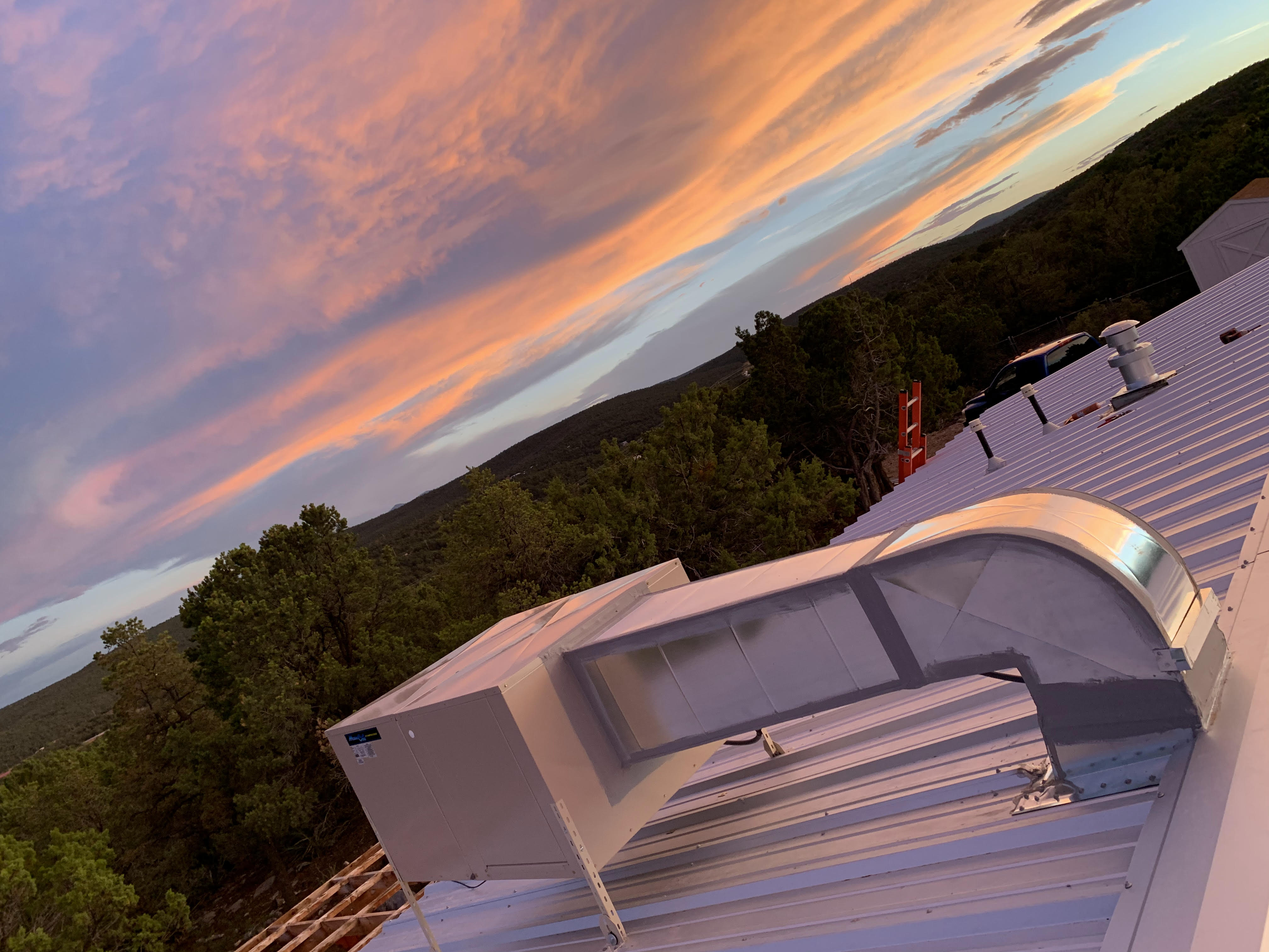
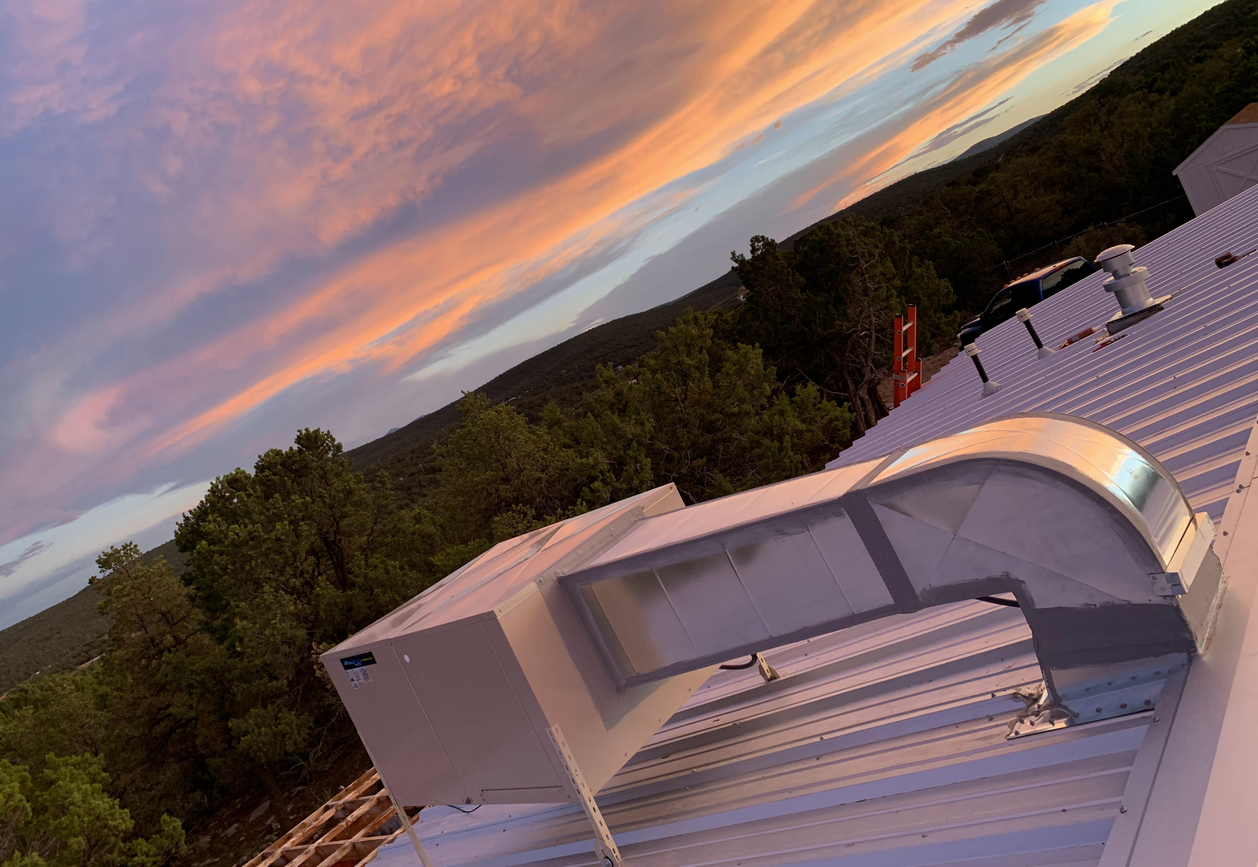
photos

diff --git a/JESOLUTIONSHCCOLORVAR2/commercial-hvac-services.html b/JESOLUTIONSHCCOLORVAR2/commercial-hvac-services.html
@@ -675,7 +675,7 @@
                                     <img src="images/HVACimages/facility-ceiling-hvac-air-duct-system.webp" style="height: 240px; width: 100%; object-fit: cover;" class="img-fluid rounded-20px" alt="Insulated ductwork in a commercial facility, part of a comprehensive HVAC service in Tulsa.">
                                 </div>
                                 <div class="image-wrapper image-duo-second">
-                                    <img src="images/HVACimages/commercial-hvac-units-on-a-rooftop.webp" style="height: 240px; width: 100%; object-fit: cover;" class="img-fluid rounded-20px" alt="Rooftop HVAC units receiving professional commercial service in Tulsa.">
+                                    <img src="images/JEIMAGES/sunsetimage.jpg" style="height: 240px; width: 100%; object-fit: cover;" class="img-fluid rounded-20px" alt="Rooftop HVAC units receiving professional commercial service in Tulsa.">
                                 </div>
                             </div>
                         </div>

diff --git a/JESOLUTIONSHCCOLORVAR2/ductwork-services.html b/JESOLUTIONSHCCOLORVAR2/ductwork-services.html
@@ -343,7 +343,7 @@
                                             </div>
                                         </div>
                                     </div>
-                                    <img src="images/background/hvac-owner-ductwork-square.jpg" class="img-fluid rounded-10 mt-4 wow zoomIn" alt="Air Dynamics of Tulsa technician inspecting home ductwork during a service visit.">
+                                    <img src="images/JEIMAGES/sunset square.jpg" class="img-fluid rounded-10 mt-4 wow zoomIn" alt="Air Dynamics of Tulsa technician inspecting home ductwork during a service visit.">
                                 </div>
                             </div>
                         </div>
